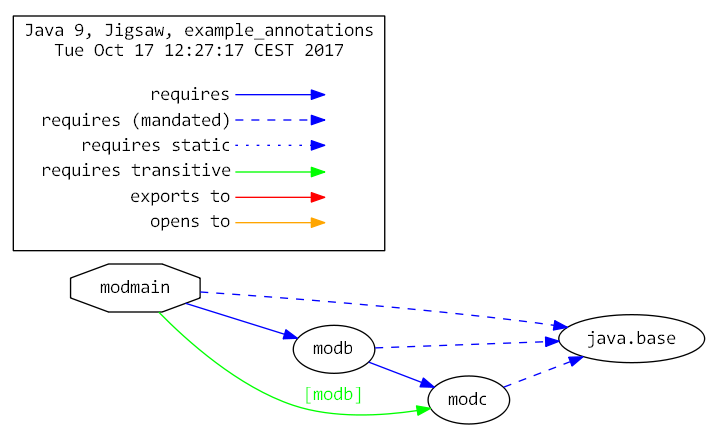
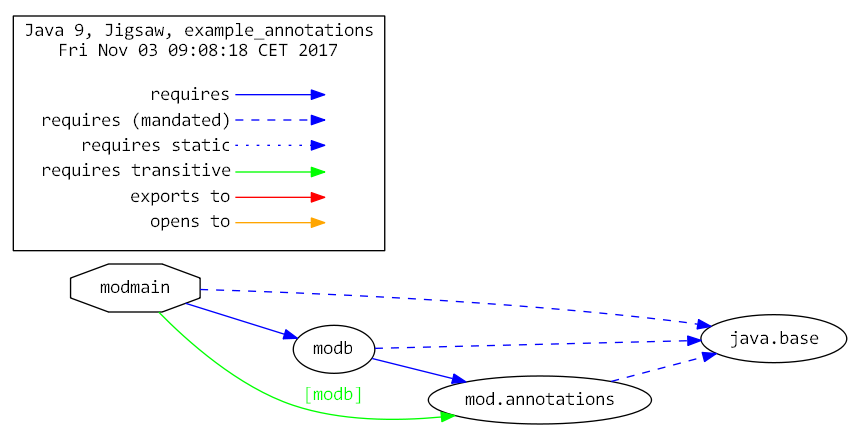
Cleanup, Eclipse dependencies, better comments and explanations

diff --git a/jigsaw-examples/example_annotations/src/modmain/pkgmain/Main.java b/jigsaw-examples/example_annotations/src/modmain/pkgmain/Main.java
@@ -8,15 +8,14 @@ import java.lang.Module;
 public class Main {
     public static void main(String[] args) throws IOException {
         Module modb = ModuleLayer.boot().findModule("modb").get();
-        Module modc = ModuleLayer.boot().findModule("modc").get();
-        
-        System.out.println("Annotations of modb:");
+        System.out.println("Annotations of module modb:");
         for (Annotation annotation: modb.getAnnotations()) {
         	System.out.println("- " + annotation);	
         }
         
-        System.out.println("Annotations of modc:");
-        for (Annotation annotation: modc.getAnnotations()) {
+        Module mod_annotations = ModuleLayer.boot().findModule("mod.annotations").get();
+        System.out.println("\nAnnotations of module mod.annotations:");
+        for (Annotation annotation: mod_annotations.getAnnotations()) {
         	System.out.println("- " + annotation);	
         }   
     }
